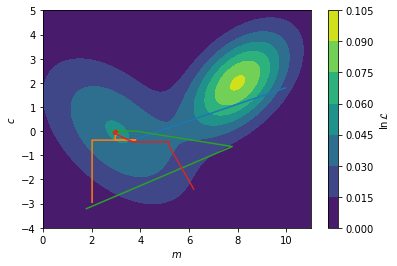
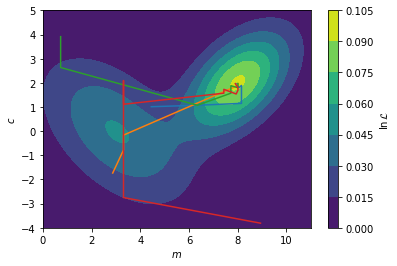
deploy: 4dc144d670c382aa6cd282333c918bd7a090e176

diff --git a/searchindex.js b/searchindex.js
@@ -1,1 +1,1 @@
-Search.setIndex({docnames:["1_the_fourier_transform/an_introduction_to_fourier_transforms","1_the_fourier_transform/fourier_transforms_for_reflectometry_analysis","2_model_dependent_analysis/what_is_model_dependent_analysis","3_reflectometry_slab_models/how_we_calculate_the_reflectivity_of_a_slab_model","3_reflectometry_slab_models/roughness_and_microslicing","3_reflectometry_slab_models/the_slab_model","4_model_reparameterisation/a_case_for_model_reparameterisation","4_model_reparameterisation/niti_multilayer_example","4_model_reparameterisation/phospholipid_monolayer_example","5_fitting_processes_and_problems/how_do_we_maximise_the_likelihood","5_fitting_processes_and_problems/how_to_leverage_our_prior_knowledge","5_fitting_processes_and_problems/what_is_the_likelihood","intro"],envversion:{"sphinx.domains.c":2,"sphinx.domains.changeset":1,"sphinx.domains.citation":1,"sphinx.domains.cpp":4,"sphinx.domains.index":1,"sphinx.domains.javascript":2,"sphinx.domains.math":2,"sphinx.domains.python":3,"sphinx.domains.rst":2,"sphinx.domains.std":2,"sphinx.ext.intersphinx":1,"sphinxcontrib.bibtex":7,sphinx:56},filenames:["1_the_fourier_transform/an_introduction_to_fourier_transforms.md","1_the_fourier_transform/fourier_transforms_for_reflectometry_analysis.ipynb","2_model_dependent_analysis/what_is_model_dependent_analysis.md","3_reflectometry_slab_models/how_we_calculate_the_reflectivity_of_a_slab_model.ipynb","3_reflectometry_slab_models/roughness_and_microslicing.ipynb","3_reflectometry_slab_models/the_slab_model.md","4_model_reparameterisation/a_case_for_model_reparameterisation.md","4_model_reparameterisation/niti_multilayer_example.ipynb","4_model_reparameterisation/phospholipid_monolayer_example.ipynb","5_fitting_processes_and_problems/how_do_we_maximise_the_likelihood.ipynb","5_fitting_processes_and_problems/how_to_leverage_our_prior_knowledge.md","5_fitting_processes_and_problems/what_is_the_likelihood.ipynb","intro.md"],objects:{},objnames:{},objtypes:{},terms:{"0":[1,3,4,8,9,10,11,12],"000":9,"00039":12,"001":[1,3,4],"00260":12,"003":12,"0053":12,"007":12,"012":12,"01980001503076100":12,"02":12,"022":[7,12],"02610489":9,"02614057":9,"0294":12,"03":12,"033":9,"04491697":9,"04493869":9,"0469":12,"04893":12,"0496667614679125":11,"06":[4,7],"07":12,"074":1,"074e":[1,4],"078":12,"092":9,"0j":[3,4],"1":[0,1,3,4,7,8,9,10,11,12],"10":[1,4,7,9,11,12],"1000":[1,3,8,9,11],"1008202821328":12,"1016":12,"1023":12,"1039":12,"104":1,"1051":12,"107":12,"108":12,"1098":12,"11":[9,12],"1103":12,"1107":12,"1119":12,"1198":12,"12":[4,11,12],"1204":12,"14":4,"15":[8,12],"155":12,"16":[1,3],"167":9,"17":4,"1761":12,"1763":12,"18":[8,12],"186":1,"186e":[1,3,4],"18th":12,"19":[8,9,12],"193":12,"1948":12,"194812030504":12,"1954":12,"197":12,"1980":12,"1997":12,"1998":12,"1999":12,"1e":4,"1f77b4":11,"1j":[1,3],"2":[1,2,3,4,7,9,11,12],"20":[1,3,4],"200":[1,3,4,12],"2005":12,"2006":12,"2007":12,"2010":12,"2011":12,"2018":12,"2019":12,"2021":12,"20384101638663543":11,"204":12,"21":12,"23":7,"248":12,"25e":4,"265":8,"265n_c":8,"2827":12,"2848":12,"297":12,"2k_nk_":4,"3":[1,3,4,5,7,9,11,12],"300":[1,3],"311":12,"3254017":12,"33":12,"338":12,"339":12,"341":12,"342":12,"357":12,"359":12,"369":12,"370":12,"3blue1brown":0,"3e":7,"4":[1,3,4,5,7,9,11,12],"40":12,"41":12,"417":7,"417e":7,"418":12,"42":[11,12],"4245e":4,"434":12,"438":7,"44":12,"4526":12,"47":[7,12],"471":12,"5":[1,3,4,8,9],"50":4,"500":[1,3,4],"504":12,"51":7,"52":12,"520":12,"53":12,"531":12,"54":12,"58":7,"59":12,"596":12,"5q":3,"6":[1,3,4,7,9,12],"6133":12,"6141":12,"648":12,"649":12,"69":7,"7":[4,8,9,11],"761":12,"779":12,"78":12,"8":[4,7,9,11],"856832":12,"867":7,"87":12,"871":1,"871e":[3,4],"9":[4,7,12],"90":8,"908":7,"91":7,"922868":12,"95":12,"951e":7,"978":12,"98":[1,12],"99":12,"9957561":9,"99615666":9,"99998503":9,"99999727":9,"\u00e0":12,"\u00e5":[0,1,3,4,7,8],"\u00e8":12,"\u00e9":12,"\u00f6":12,"\u00fc":12,"abel\u00e8":[3,4],"abstract":7,"br\u00f6hl":12,"case":[5,10],"do":[1,2],"float":[7,9,11],"function":[1,2,3,4,5,8,9,11],"import":[1,2,3,4,5,6,7,8,9,11],"int":1,"new":12,"return":[1,3,7,9,11],"switch":12,"true":[6,9],"try":[9,12],"while":[6,7],A:[1,2,4,5,7,8,9,12],As:[5,8],Be:9,By:2,For:[1,7,8,11,12],If:[1,2,9,10,11,12],In:[1,5,6,8,9,10,12],It:[2,4,5,8,9,10,12],No:4,One:8,The:[0,2,3,4,6,7,8,9,11,12],Then:[1,2,3],There:[4,9],These:[1,4,9],To:[1,4,6],_:[1,3],ab:[1,3],abel:[3,4,12],abeles48:[3,12],abeles_with_rough:4,abl:4,about:[6,8,9,10],abov:[1,2,4,7,9,11],abscissa:11,absolut:9,academ:12,accept:[1,10],account:4,accur:[2,4,6],acf2:1,acf:1,achiev:[4,8,10],across:11,act:8,action:1,ad:8,adapt:4,add:8,add_patch:4,addit:[1,6,8],addition:[2,3,4,6,7,9],admittedli:4,advanc:12,affect:8,after:[1,9],again:[1,4],against:5,agnet:12,agre:11,agreement:[2,9,11],aid:3,aim:[9,11,12],air:[1,4,8,12],al:6,algorithm:[2,9,10,12],all:[0,3,9,10,12],allow:[6,7,8,9],alon:9,alonso:12,alpha:11,alreadi:[2,10],also:[4,7,8],although:1,am:12,amphiphil:8,an:[2,4,5,6,9,10,12],analog:[0,9,11],analys:[9,12],analysi:[3,5,7,8,9,10,11,12],analyt:2,andbook:12,andrew:12,angstrom:7,ani:[4,11,12],ann:12,anomagnet:12,anoth:1,anphi:12,answer:12,apm:8,append:9,appl:12,appli:[1,2,4,6,8,9,12],applic:[3,9,12],approach:[1,2,3,4,5,6,7,8,9,12],approx:1,approxim:[3,12],ar:[0,1,2,3,4,5,6,7,8,9,10,11,12],area:6,argmax:9,argsort:9,arnold:12,around:4,arrai:[1,3,4,7,9],artefact:4,artifici:12,assembl:8,assess:9,assign:7,associ:[10,11,12],assum:[8,12],assumpt:[2,6,7,8],ateri:12,atom:[7,8],attach:8,attent:12,autocorrel:1,avail:1,avogadro:7,awar:[2,9],ax:[4,11],axhlin:1,b:[3,7,12],b_:[3,7],b_i:[7,8],b_ni:7,b_ti:7,back:9,bar:[3,11],base:[2,3,7],basic:12,bay:[10,12],bayesian:[10,12],becom:[1,9],been:[1,3,4,7,8,12],befor:[0,4,5,12],begin:3,being:[2,4,11],belief:10,believ:2,below:[0,1,3,4,5,7,8,9,11],benefit:8,berk:12,best:[8,9,11],beta:[1,3,4,7,8],beta_0:3,beta_1:5,beta_2:5,beta_:[1,7,8],beta_i:8,beta_microsl:4,beta_n:3,beta_ni:7,beta_ti:7,between:[0,1,2,3,4,5,9,11],bia:2,bias:10,bigg:[1,11],biolog:[9,12],bj:12,bjorck11:[9,12],black:[1,9],block:12,blue:[1,9,11],bmatrix:3,book:[1,10,12],born:[3,12],borrow:1,both:8,bound:[7,10],bowen:12,bp63:[10,12],bring:3,broad:[2,11],broadli:2,brought:3,bsd:3,c9cp00203k:12,c:[1,9,11,12],calcul:[1,2,4,5,8,11],call:5,callback:9,campbel:12,can:[1,2,3,4,5,6,7,8,9,10,11,12],cannot:[4,11],caract:12,carbon:8,carefulli:9,caruana:12,cation:12,catter:12,caus:8,caution:6,cdot:7,chanc:12,chang:[1,2,9],character:12,characterist:3,characteristic_matric:3,chem:12,chemic:[5,6,12],chemistri:2,chi:11,circ:8,clark:12,clear:[2,4,5,9],clearer:3,clearli:4,clifton:12,close:3,cm:7,coci:12,code:[4,7,9,12],collect:12,colloid:12,color:11,colorbar:9,comfort:12,common:[2,4,5,7,8,9],commonli:[6,9,11],companion:12,compar:[2,3,4,6,11],comparison:5,complementari:6,complet:[2,9],complex:[3,8,9,12],composit:8,computation:9,concept:6,conclus:9,condens:12,conj:3,conjug:3,consid:[1,2,3,4,5,7,8,9,10,11],consider:9,consist:[5,7,8],constant:[2,7,10],constrain:[7,8],constraint:[6,8],construct:[2,3,5,10],consult:8,content:12,context:2,continu:12,contourf:9,contrast:9,convers:6,could:[5,10],coupl:9,cours:12,cover:[2,12],creat:4,croce:[4,12],crystallogr:12,crystallographi:1,css:[8,12],cubitt:12,curr:12,current:[9,12],current_theta:9,curve_fit:11,d:[1,3,4,11,12],d_1:5,d_2:5,d_h:8,d_i:8,d_microsl:4,d_n:3,d_t:8,dan:12,data:[1,2,3,4,5,6,7,8,9,10,11,12],databas:7,datapoint:11,dataset:[9,11],de:12,decomposit:0,deep:12,def:[1,3,7,9,11],defin:[1,2,5,6,7,8,11],deg2rad:8,delta:1,denot:1,densiti:[1,3,4,5,6,8],depend:[5,7,8,9,10,11,12],deposit:7,deriv:[1,5],descent:9,describ:[2,3,4,5,6,9,10,11],descript:[1,6,8],design:10,desir:[7,9],deslatt:12,destruct:5,detail:[0,1,2],detector:5,determin:[3,9,12],develop:12,deviat:[3,11],devind:[1,10,12],diatom:2,diff:[1,3],differ:[1,4,5],differenti:[9,10,12],differential_evolut:9,difficult:8,dimens:[1,5],dimension:9,dioxid:[1,4],directli:7,discoveri:9,discuss:[1,4,5,11],disposit:7,distribut:[9,11],divid:1,docstr:3,doctrin:12,doe:[2,3,4],doi:12,domain:0,done:11,dot:11,downhil:9,dppc:8,dr:[1,10,12],draw:[9,12],dtype:3,du:12,due:[1,2],dura:12,dvanc:12,e:[5,12],each:[3,4,5,7,8],easili:[7,9],edgecolor:4,edit:12,editor:12,edler:12,effect:[1,4,9,12],effici:12,eflect:12,elast:0,element:[7,11],elementari:[1,12],eleph:12,els:2,enabl:[4,10],encount:[2,9],end:3,ensur:[2,9],entir:2,enumer:11,enzym:2,equat:[1,2],error:[4,11],errorbar:11,essai:12,essenti:0,estim:1,et:6,european:12,eutect:12,eutron:12,evalu:[7,12],eventu:9,ever:2,everi:8,evolut:[9,10,12],evolutionari:9,exampl:[2,4,5,6,9,10],exhaust:12,exist:[4,9],exp:[1,3,4],expect:[2,10],experi:[2,12],experiment:[2,5,6,11],explicitli:1,exploit:12,extend:8,extrem:8,f:[3,7,12],fact:10,factor:[3,11],fair:2,fals:4,familiar:[1,2,6],fantast:1,far:11,fashion:9,feed:9,feedback:12,feel:12,fernandez:12,ff7f0e:11,field:[8,12],fig:[2,4,5,8,11],figsiz:[4,11],figur:[1,2,4,9,11,12],fill:4,fill_between:11,find:[1,2,4,7,8,9,10,11],first:[1,2,3,5,6,7,9,11],fit:[2,6,7,9,11],fitzsimmon:12,flat:[1,4],flavour:[6,9],flexion:12,flow:2,fm05:12,fm:7,focus:0,follow:[1,7,8,9,11,12],forc:2,form:[1,9],formal:[3,4],format:12,found:[1,3,4,7,8,9,10],four:12,fourier:[2,3,5,12],fourier_transform:1,frac:[1,3,4,7,8,10,11],fraction:8,free:[6,9,12],frensel:3,fresnel:[3,4],fresnel_reflect:3,from:[0,1,2,3,4,5,6,7,8,9,11,12],full:1,fulli:8,fundament:[0,5],further:[9,10],g:[7,12],garbag:2,gcm:7,gener:[2,9,12],genet:12,geometri:5,gerelli:12,get:[2,11,12],give:[0,3,6,12],given:[4,5,8,9,11],glob:12,global:[9,12],go:[3,5,9],good:11,gradient:11,gradient_callback:9,gradient_v:9,graphic:7,great:[0,10],greater:1,group:8,guess:9,guntherodt:12,h:12,ha:[1,4,7,8,12],hall:12,hand:4,hard:7,harder:9,have:[1,2,3,8,9,10,11,12],head:8,heavili:[8,11,12],heavisid:1,heinrich:12,helper:[4,9],henc:[0,11],henomena:12,here:[3,11],heurist:12,higher:8,hoogerheid:12,hopefulli:5,horizont:1,how:[2,5,6,8,11,12],howard:12,howev:[1,2,4,5,6,7,9,11],hydrocarbon:8,hydrophil:8,hydrophob:[8,12],i:[1,3,5,7,8,11],identifi:4,ignor:4,impact:[0,4],implement:[3,4,9],impli:4,impos:10,improv:2,inaccur:4,incid:[1,5],includ:[0,2,3,7,8,12],incorrectli:4,increas:[4,9,11],independ:2,indic:[1,9,11],individu:[3,7],induc:12,influenc:4,inform:[1,6,12],infti:1,inher:2,initi:9,input:3,insect:9,insight:[2,12],insolubl:8,inspir:9,instead:[1,3,7,9,10],instrument:8,integr:[10,12],intens:[1,9],interact:[0,1],intercal:8,intercept:11,interest:[0,2,12],interfac:[3,4,5,8,12],interfer:5,interpret:[2,4],interrog:[4,9],introduc:[2,4,5,6,8,10,12],introduct:10,inv_fourier_transform:1,invers:[1,12],investig:[1,2,6,9],involv:[5,7],isbn:12,isi:12,isotop:9,issu:1,its:7,j:12,jackson:12,jci:12,john:[6,12],jpsc21:[6,12],jupyterhub:12,k0:3,k:[1,3,9,12],k_0:3,k_:[3,4],k_n:[3,4],karin:12,khairi:12,kienzl:12,kinet:2,kn:3,knowledg:12,known:[2,4,8],kronm:12,l:[9,10,11,12],la:12,label:[1,3,4,9],lak19:12,lakei:12,languag:[6,12],larg:[1,12],later:[5,7],latter:6,lawrenc:12,layer:[3,4,5,7,8],le:12,lead:[0,2,4,5],leak:4,learn:8,lectromagn:12,lectur:12,left:4,legend:[1,3,4],length:[1,3,4,5,6,8],less:5,let:[0,1,10],licens:3,light:12,like:[2,4,8,10],likelihood:10,likleihood:10,limit:[1,2,7,8],line:[1,9,11],linearli:11,linspac:[1,3,4,8,9,11],lipid:12,liquid:12,list:12,literatur:8,ller:12,ln:[9,11],loadtxt:11,local:9,log:[1,3,4,11],logic:[2,10,12],logpdf:9,lond:12,look:[0,1,2,3,6,9,10,11],loss:1,lost:5,lovel:12,low:3,lr99:[2,12],ls:11,lw:11,m:[3,9,11,12],m_:[3,7],m_w:7,m_w_ni:7,m_w_ti:7,made:[2,6,7],magnet:12,magnitud:1,mai:[1,2,6,7,11,12],majkrzak:12,major:[7,11],make:[2,3,6,8,12],mani:9,marker:11,mass:6,match:1,materi:[1,3,4,5,7,12],mathcal:[9,10,11],mathemat:12,mathit:[1,3],mathrm:[1,3,7,8,11],matnei:12,matplotlib:[1,3,4,8,9,11],matric:3,matrix:[3,4],matter:[7,12],matyszewska:12,max:[1,3,11],maxima:9,maximilian:12,maximis:[10,11],maximum:[8,9,10,11],mayer:12,mbd:[1,12],mccluskei:12,mead:9,mean:[1,4,7,8,9,11],measur:[0,1,2,5,6,10,11],media:3,member:9,membran:12,menten:2,mention:8,merit:2,meshgrid:9,method:[3,4,12],methodolog:[1,2,4,9,12],metric:[9,11],micel:12,micha:2,might:2,milieux:12,minim:9,minimis:[9,11],minimum:[9,10],mkh10:[2,12],modal:9,model:[1,4,7,8,9,10,11,12],modifi:[3,4],modul:[4,9],mol:7,molecul:[2,6],molecular:7,monolay:12,more:[0,2,4,6,7,8,9,10,11,12],most:[3,4,5,9],move:9,movement:12,msfe:[8,12],much:[3,5],multi:9,multivariate_norm:9,must:[2,4,8],mv1:9,mv2:9,mv:9,n:[3,4,7,8,11,12],n_:[3,11],n_a:7,n_c:8,nanostructur:12,natur:[6,8],nazaruk:12,ndarrai:[1,3,7,9,11],nearbi:9,necessari:[3,4,9],need:2,neg:9,nelder:9,nelson:12,neutron:[0,1,2,3,5,6,7,9],nevot:4,nevotc80:[4,12],newaxi:[1,3],ni:7,nickel:[4,7],nll:9,nois:1,noisi:1,non:9,none:9,norm:11,normal:[1,3,9,11],normal_wavevector:3,normalis:[1,11],note:[1,2,8,9],notic:[4,11],novemb:12,now:[0,3,4,8,9,11],np19:[3,12],np:[1,3,4,7,8,9,11],nuanc:5,number:[1,6,7,8,9,11],number_lay:3,number_q:3,numpi:[1,3,4,7,8,9,11],o:11,observ:[1,4,5,11],obtain:[1,4,7],obvious:5,offer:2,olar:12,onc:[9,12],ond:12,one:[8,9,10,11],ones:3,ones_lik:4,onli:[1,4,7,8,11],onlin:7,opin:12,opinion:12,optim:[9,11,12],optimis:[8,9],optimum:9,orang:[9,11],order:[5,9],other:[8,11],our:[1,2,4,5,6,7,8,9,11],out:[2,10],outsid:10,over:12,overal:[3,9,11],overview:0,oxford:12,p0:3,p1:3,p:[10,11,12],packag:[3,7],page:12,pai:12,panaccion:12,panosc:12,paper:12,par54:[3,12],par:12,param:[1,3,7,11],paramet:[3,4,5,6,7,8,9,10,11,12],parameteris:[6,8,12],pari:12,parker:12,parkin:12,parratt:[3,12],part:[1,11,12],particip:12,particl:9,particular:[5,6],particularli:12,patch:4,path:[5,9],pattern:[0,5],pdf:[9,11],peak:1,pedulla:12,per:6,perfect:4,perfectli:4,perform:[0,1,11],perpendicular:1,pg:1,phase:[1,2,3,12],phase_factor:3,phi:3,phi_0:3,phi_i:8,phi_n:3,phi_t:3,phil:12,phospholipid:12,phy:12,physic:[1,2,5,6,8,12],physica:12,physrev:12,pi:[1,3,11],pictori:8,piec:[1,4,7],pint:7,place:10,plane:[1,8],pleas:12,plot:[1,3,4,8,9,11,12],plt:[1,3,4,8,9,11],point:11,polar:12,polissag:12,popul:9,popular:2,posit:9,possibl:[1,2,4,5,8,9,11],posterior:10,power:12,prepar:[2,7],prescott:12,present:[1,2,4],press:12,pressur:8,preston:12,previou:[2,6],previous:[3,4,6,8],price:12,print:[7,9],probabl:[10,11],probe:[2,9,10],problem:[1,2,9,12],problemat:12,procedur:12,process:[2,6,7,9,12],prod:3,produc:[1,2,12],product:3,profil:[1,4,5],program:12,project:12,propag:[3,5,12],propos:2,propto:10,py:[4,9],pyplot:[1,3,4,8,9,11],python:[3,12],q2:1,q:[0,1,2,3,4,12],q_:1,q_x:1,q_y:1,qualiti:9,quantifi:9,quelqu:12,question:12,quick:1,r2:1,r:[1,3,4,5,8,12],r_:[3,4],r_abel:3,r_fourier:3,r_microsl:4,r_nevot_croc:4,r_with_rough:4,radiat:[0,1],rai:[1,12],random:9,rang:[1,2,3,4,9,12],rasant:12,rather:[2,6,7],ratio:5,ration:9,rayon:12,rck:12,re:9,reach:[7,9],read:12,reader:12,real:[3,4,5],realli:2,reason:7,recent:[8,12],rectangl:4,recurs:3,red:4,reduc:[6,8],refin:5,reflect:[1,2,4,5,12],reflectometri:[0,2,3,4,5,6,7,8,9,11],refnx:[3,12],refract:[3,5],region:[1,4,8,9],relat:7,relationship:1,relev:[8,12],reli:3,render:1,reparameteris:[5,7,8,11,12],repeat:7,repres:[2,11],reproduc:3,requir:[6,12],res1:9,res2:9,resolut:[1,2],respect:1,result:[1,2,3,4,5,9],resultant_matrix:3,retriv:1,rev:12,review:12,rewrit:1,rho:[3,7],rho_:7,rho_ni:7,rho_ti:7,rho_to_beta:7,richardson:12,right:4,risat:12,robust:9,room:7,root:9,rout:9,rphysap:12,rsta:12,rstl:12,rule:4,s0021889811041446:12,s0921:12,s1359:12,s1600576718017016:12,s1600576718017296:12,s:[0,1,7,8,9,10,12],saaka:12,sai:1,same:[4,5,7,11],sampl:[0,1,2,4,7],sanchez:12,sansom:12,satija:12,scale:[1,12],scatter:[0,1,3,4,5,6,8,12],sche:12,sci:12,scienc:[2,12],scipi:[7,9,11],search:12,section:[2,5,6,9],see:[4,5,9],seen:[10,11],select:11,self:8,semi:9,sensit:1,seri:[3,4,5],set:7,set_xlabel:[4,11],set_xlim:4,set_ylabel:[4,11],set_ylim:4,shao:12,shape:[3,9],shortest:4,should:[1,4,6,8,9,11,12],show:[1,2,3,4,5,7,8,9,11,12],shown:[1,2,3,4,5,8,9,11],si:1,sigma2:4,sigma3:4,sigma5:4,sigma7:4,sigma:[4,11],sigma_:4,sigma_n:11,silic:12,silicon:[1,4,7],similar:[2,3],simpl:[1,2,5,6,7,8,9,10,12],simpli:9,simul:[2,4,5,6,7],sin:8,singl:[8,11],sio_2:1,sit:[8,11],siv11:[1,12],sivia:[1,10,12],sj06:[10,12],skill:12,skip:12,sko19:12,skoda:12,slab:[4,6,8,12],sld_with_rough:4,smooth:[1,4],so:11,soc:12,soft:12,solid:12,solubl:8,solut:9,solv:12,solvat:8,solvent:[8,12],some:[0,1,2,4,5,8,9,10,11,12],someth:[0,2],son:12,sourc:12,sp97:[9,12],space:[0,9,12],spallat:12,speak:8,specif:[6,8],spectra:2,specular:12,spintron:12,springer:12,sqrt:3,squar:[1,3],sratifi:12,staff:8,standard:11,start:[9,10],stat:[9,11],state:10,step:[4,9,10],stephen:12,still:[4,7],storn:12,straight_lin:11,straightforward:6,strand:8,stratifi:3,structur:[1,2,6,7,12],student:12,studi:[1,2,8,12],subject:12,subplot:[4,11],suggest:[10,12],sum:[1,3,7],sum_:[7,8,11],summat:11,superphas:3,sur:12,sure:12,surfac:[1,3,7,12],surfact:12,swarm:9,synthesi:2,system:[1,2,4,5,6,7,8,9,12],t:[9,12],t_t:8,tackl:2,tail:8,take:[0,2,9,10],taken:[3,5],tan80:[8,12],tanford:[8,12],techniqu:[6,12],temperatur:7,tend:1,term:[5,7,8,11],textquotesingl:12,than:[1,4,7,9],thank:12,thei:[9,12],them:[4,11],theorem:10,theori:[1,12],therefor:[2,4,6,7,9,10],theta:[8,9,10,11],thi:[0,1,2,3,4,5,6,7,8,9,10,11,12],thick:[1,3,4,5,8],thin:4,thing:2,think:6,those:10,thought:1,three:[2,7],through:[3,4,5,12],thumb:4,tight_layout:11,time:[0,1,4,7],tiqu:12,titanium:7,tkh:[9,12],togeth:3,tool:[1,2,6],top4:9,top:1,toperverg:12,total:12,touch:12,toward:[1,9,12],tradit:[7,8,12],train:12,tran:12,transform:[2,3,5,12],translat:6,transmitt:3,treec:12,trigonometri:8,tude:12,turn:9,tutori:[10,12],two:[2,3,4,5,6,8,9],txt:11,typic:[2,4,5,6,7,8,9,11],tz07:12,u:7,uantum:12,uncertainti:11,unclear:7,under:[1,3,8],underli:[2,11],understand:[2,3,5,6,10,12],unintuit:6,uniqu:9,unit:0,unitregistri:7,univers:12,unlik:8,unphys:[1,4],until:7,up:9,uphil:9,us:[2,3,4,6,7,8,9,10,11,12],useless:1,user:[1,12],utilis:1,valu:[1,3,7,8,9,10,11],vari:[7,9],variabl:7,varieti:9,vector:3,veri:[4,8,9],verr:12,version:1,vibrat:2,video:0,virtual:12,visualis:[1,4],vot:12,w:[7,12],wa:[1,2,5,10,12],wai:[2,8],watch:0,water:[8,12],wave:[3,5],wavevector:[1,3],wc19:12,we:[0,1,2,4,5,6,7,8,10,11,12],weight:7,welbourn:12,well:2,were:10,what:12,when:[3,5,8,9,10,11],where:[1,2,3,4,5,7,8,9,10,11],which:[0,1,3,4,7,8,9,10,11],width:4,wiesendang:12,wilei:12,within:10,without:[1,2,4],word:2,work:[4,6,12],workflow:2,wormington:12,would:[2,4,5,8,10],wpmb99:[9,12],written:[1,11],wwe:8,x:[1,9,11,12],x_n:11,xlabel:[1,3,4,8,9],xy:8,y:[9,10,11,12],y_fit:11,y_n:11,ylabel:[1,3,4,8,9],you:[1,2,10,11,12],your:[8,12],yscale:[1,3,4],yy:11,z:[1,3,4,5],zabel:12,zero:3,zeros_lik:[1,3],zhou:12,zorder:11,zq:1,ztbt07:12},titles:["An introduction to Fourier transforms","Fourier transforms for reflectometry analysis","What is model-dependent analysis?","How we calculate the reflectivity of a slab model","Roughness and microslicing","The \u201cslab model\u201d","A case for model reparameterisation","NiTi multilayer example","Phospholipid monolayer example","How do we maximise the likelihood?","How to leverage our prior knowledge?","What is the likelihood?","Introduction to neutron reflectometry fitting"],titleterms:{"case":6,"do":9,A:[6,10],The:[1,5],algorithm:3,an:[0,1],analysi:[1,2],angl:8,approxim:1,area:8,bibliographi:12,born:1,calcul:3,chain:8,densiti:7,depend:2,exampl:[1,7,8],fit:12,fourier:[0,1],gradient:9,how:[3,9,10],interfac:1,interfaci:4,introduct:[0,12],knowledg:10,layer:1,length:7,leverag:10,likelihood:[9,11],mass:7,maximis:9,method:9,microsl:4,model:[2,3,5,6],molecul:8,monolay:8,multilay:7,neutron:12,niti:7,our:10,oxid:1,per:8,phospholipid:8,prior:10,problem:4,reflect:3,reflectometri:[1,12],reparameteris:6,rough:4,scatter:7,singl:1,slab:[3,5],specular:1,stochast:9,tilt:8,transform:[0,1],uniform:10,us:1,we:[3,9],what:[0,2,11]}})
+Search.setIndex({docnames:["1_the_fourier_transform/an_introduction_to_fourier_transforms","1_the_fourier_transform/fourier_transforms_for_reflectometry_analysis","2_model_dependent_analysis/what_is_model_dependent_analysis","3_reflectometry_slab_models/how_we_calculate_the_reflectivity_of_a_slab_model","3_reflectometry_slab_models/roughness_and_microslicing","3_reflectometry_slab_models/the_slab_model","4_model_reparameterisation/a_case_for_model_reparameterisation","4_model_reparameterisation/niti_multilayer_example","4_model_reparameterisation/phospholipid_monolayer_example","5_fitting_processes_and_problems/how_do_we_maximise_the_likelihood","5_fitting_processes_and_problems/how_to_leverage_our_prior_knowledge","5_fitting_processes_and_problems/what_is_the_likelihood","intro"],envversion:{"sphinx.domains.c":2,"sphinx.domains.changeset":1,"sphinx.domains.citation":1,"sphinx.domains.cpp":4,"sphinx.domains.index":1,"sphinx.domains.javascript":2,"sphinx.domains.math":2,"sphinx.domains.python":3,"sphinx.domains.rst":2,"sphinx.domains.std":2,"sphinx.ext.intersphinx":1,"sphinxcontrib.bibtex":7,sphinx:56},filenames:["1_the_fourier_transform/an_introduction_to_fourier_transforms.md","1_the_fourier_transform/fourier_transforms_for_reflectometry_analysis.ipynb","2_model_dependent_analysis/what_is_model_dependent_analysis.md","3_reflectometry_slab_models/how_we_calculate_the_reflectivity_of_a_slab_model.ipynb","3_reflectometry_slab_models/roughness_and_microslicing.ipynb","3_reflectometry_slab_models/the_slab_model.md","4_model_reparameterisation/a_case_for_model_reparameterisation.md","4_model_reparameterisation/niti_multilayer_example.ipynb","4_model_reparameterisation/phospholipid_monolayer_example.ipynb","5_fitting_processes_and_problems/how_do_we_maximise_the_likelihood.ipynb","5_fitting_processes_and_problems/how_to_leverage_our_prior_knowledge.md","5_fitting_processes_and_problems/what_is_the_likelihood.ipynb","intro.md"],objects:{},objnames:{},objtypes:{},terms:{"0":[1,3,4,8,9,10,11,12],"000":9,"00039":12,"001":[1,3,4],"00260":12,"003":12,"0053":12,"007":12,"012":12,"01980001503076100":12,"02":12,"022":[7,12],"02614057":9,"0294":12,"03":12,"033":9,"04493869":9,"0469":12,"04893":12,"0496667614679125":11,"06":[4,7],"07":12,"074":1,"074e":[1,4],"078":12,"092":9,"0j":[3,4],"1":[0,1,3,4,7,8,9,10,11,12],"10":[1,4,7,9,11,12],"1000":[1,3,8,9,11],"1008202821328":12,"1016":12,"1023":12,"1039":12,"104":1,"1051":12,"107":12,"108":12,"1098":12,"11":[9,12],"1103":12,"1107":12,"1119":12,"1198":12,"12":[4,11,12],"1204":12,"14":4,"15":[8,12],"155":12,"16":[1,3],"167":9,"17":4,"1761":12,"1763":12,"18":[8,12],"186":1,"186e":[1,3,4],"18th":12,"19":[8,9,12],"193":12,"1948":12,"194812030504":12,"1954":12,"197":12,"1980":12,"1997":12,"1998":12,"1999":12,"1e":4,"1f77b4":11,"1j":[1,3],"2":[1,2,3,4,7,9,11,12],"20":[1,3,4],"200":[1,3,4,12],"2005":12,"2006":12,"2007":12,"2010":12,"2011":12,"2018":12,"2019":12,"2021":12,"20384101638663543":11,"204":12,"21":12,"23":7,"248":12,"25e":4,"265":8,"265n_c":8,"2827":12,"2848":12,"297":12,"2k_nk_":4,"3":[1,3,4,5,7,9,11,12],"300":[1,3],"311":12,"3254017":12,"33":12,"338":12,"339":12,"341":12,"342":12,"357":12,"359":12,"369":12,"370":12,"3blue1brown":0,"3e":7,"4":[1,3,4,5,7,9,11,12],"40":12,"41":12,"417":7,"417e":7,"418":12,"42":[11,12],"4245e":4,"434":12,"438":7,"44":12,"4526":12,"47":[7,12],"471":12,"5":[1,3,4,8,9],"50":4,"500":[1,3,4],"504":12,"51":7,"52":12,"520":12,"53":12,"531":12,"54":12,"58":7,"59":12,"596":12,"5q":3,"6":[1,3,4,7,9,12],"6133":12,"6141":12,"648":12,"649":12,"69":7,"7":[4,8,9,11],"761":12,"779":12,"78":12,"79103477":9,"8":[4,7,9,11],"856832":12,"867":7,"87":12,"871":1,"871e":[3,4],"89098951":9,"9":[4,7,12],"90":8,"908":7,"91":7,"922868":12,"95":12,"951e":7,"978":12,"98":[1,12],"99":12,"9957561":9,"99615666":9,"99998503":9,"99999727":9,"\u00e0":12,"\u00e5":[0,1,3,4,7,8],"\u00e8":12,"\u00e9":12,"\u00f6":12,"\u00fc":12,"abel\u00e8":[3,4],"abstract":7,"br\u00f6hl":12,"case":[5,10],"do":[1,2],"float":[7,9,11],"function":[1,2,3,4,5,8,9,11],"import":[1,2,3,4,5,6,7,8,9,11],"int":1,"new":12,"return":[1,3,7,9,11],"switch":12,"true":[6,9],"try":[9,12],"while":[6,7],A:[1,2,4,5,7,8,9,12],As:[5,8],Be:9,By:2,For:[1,7,8,11,12],If:[1,2,9,10,11,12],In:[1,5,6,8,9,10,12],It:[2,4,5,8,9,10,12],No:4,One:8,The:[0,2,3,4,6,7,8,9,11,12],Then:[1,2,3],There:[4,9],These:[1,4,9],To:[1,4,6],_:[1,3],ab:[1,3],abel:[3,4,12],abeles48:[3,12],abeles_with_rough:4,abl:4,about:[6,8,9,10],abov:[1,2,4,7,9,11],abscissa:11,absolut:9,academ:12,accept:[1,10],account:4,accur:[2,4,6],acf2:1,acf:1,achiev:[4,8,10],across:11,act:8,action:1,ad:8,adapt:4,add:8,add_patch:4,addit:[1,6,8],addition:[2,3,4,6,7,9],admittedli:4,advanc:12,affect:8,after:[1,9],again:[1,4],against:5,agnet:12,agre:11,agreement:[2,9,11],aid:3,aim:[9,11,12],air:[1,4,8,12],al:6,algorithm:[2,9,10,12],all:[0,3,9,10,12],allow:[6,7,8,9],alon:9,alonso:12,alpha:11,alreadi:[2,10],also:[4,7,8],although:1,am:12,amphiphil:8,an:[2,4,5,6,9,10,12],analog:[0,9,11],analys:[9,12],analysi:[3,5,7,8,9,10,11,12],analyt:2,andbook:12,andrew:12,angstrom:7,ani:[4,11,12],ann:12,anomagnet:12,anoth:1,anphi:12,answer:12,apm:8,append:9,appl:12,appli:[1,2,4,6,8,9,12],applic:[3,9,12],approach:[1,2,3,4,5,6,7,8,9,12],approx:1,approxim:[3,12],ar:[0,1,2,3,4,5,6,7,8,9,10,11,12],area:6,argmax:9,argsort:9,arnold:12,around:4,arrai:[1,3,4,7,9],artefact:4,artifici:12,assembl:8,assess:9,assign:7,associ:[10,11,12],assum:[8,12],assumpt:[2,6,7,8],ateri:12,atom:[7,8],attach:8,attent:12,autocorrel:1,avail:1,avogadro:7,awar:[2,9],ax:[4,11],axhlin:1,b:[3,7,12],b_:[3,7],b_i:[7,8],b_ni:7,b_ti:7,back:9,bar:[3,11],base:[2,3,7],basic:12,bay:[10,12],bayesian:[10,12],becom:[1,9],been:[1,3,4,7,8,12],befor:[0,4,5,12],begin:3,being:[2,4,11],belief:10,believ:2,below:[0,1,3,4,5,7,8,9,11],benefit:8,berk:12,best:[8,9,11],beta:[1,3,4,7,8],beta_0:3,beta_1:5,beta_2:5,beta_:[1,7,8],beta_i:8,beta_microsl:4,beta_n:3,beta_ni:7,beta_ti:7,between:[0,1,2,3,4,5,9,11],bia:2,bias:10,bigg:[1,11],biolog:[9,12],bj:12,bjorck11:[9,12],black:[1,9],block:12,blue:[1,9,11],bmatrix:3,book:[1,10,12],born:[3,12],borrow:1,both:8,bound:[7,10],bowen:12,bp63:[10,12],bring:3,broad:[2,11],broadli:2,brought:3,bsd:3,c9cp00203k:12,c:[1,9,11,12],calcul:[1,2,4,5,8,11],call:5,callback:9,campbel:12,can:[1,2,3,4,5,6,7,8,9,10,11,12],cannot:[4,11],caract:12,carbon:8,carefulli:9,caruana:12,cation:12,catter:12,caus:8,caution:6,cdot:7,chanc:12,chang:[1,2,9],character:12,characterist:3,characteristic_matric:3,chem:12,chemic:[5,6,12],chemistri:2,chi:11,circ:8,clark:12,clear:[2,4,5,9],clearer:3,clearli:4,clifton:12,close:3,cm:7,coci:12,code:[4,7,9,12],collect:12,colloid:12,color:11,colorbar:9,comfort:12,common:[2,4,5,7,8,9],commonli:[6,9,11],companion:12,compar:[2,3,4,6,11],comparison:5,complementari:6,complet:[2,9],complex:[3,8,9,12],composit:8,computation:9,concept:6,conclus:9,condens:12,conj:3,conjug:3,consid:[1,2,3,4,5,7,8,9,10,11],consider:9,consist:[5,7,8],constant:[2,7,10],constrain:[7,8],constraint:[6,8],construct:[2,3,5,10],consult:8,content:12,context:2,continu:12,contourf:9,contrast:9,convers:6,could:[5,10],coupl:9,cours:12,cover:[2,12],creat:4,croce:[4,12],crystallogr:12,crystallographi:1,css:[8,12],cubitt:12,curr:12,current:[9,12],current_theta:9,curve_fit:11,d:[1,3,4,11,12],d_1:5,d_2:5,d_h:8,d_i:8,d_microsl:4,d_n:3,d_t:8,dan:12,data:[1,2,3,4,5,6,7,8,9,10,11,12],databas:7,datapoint:11,dataset:[9,11],de:12,decomposit:0,deep:12,def:[1,3,7,9,11],defin:[1,2,5,6,7,8,11],deg2rad:8,delta:1,denot:1,densiti:[1,3,4,5,6,8],depend:[5,7,8,9,10,11,12],deposit:7,deriv:[1,5],descent:9,describ:[2,3,4,5,6,9,10,11],descript:[1,6,8],design:10,desir:[7,9],deslatt:12,destruct:5,detail:[0,1,2],detector:5,determin:[3,9,12],develop:12,deviat:[3,11],devind:[1,10,12],diatom:2,diff:[1,3],differ:[1,4,5],differenti:[9,10,12],differential_evolut:9,difficult:8,dimens:[1,5],dimension:9,dioxid:[1,4],directli:7,discoveri:9,discuss:[1,4,5,11],disposit:7,distribut:[9,11],divid:1,docstr:3,doctrin:12,doe:[2,3,4],doi:12,domain:0,done:11,dot:11,downhil:9,dppc:8,dr:[1,10,12],draw:[9,12],dtype:3,du:12,due:[1,2],dura:12,dvanc:12,e:[5,12],each:[3,4,5,7,8],easili:[7,9],edgecolor:4,edit:12,editor:12,edler:12,effect:[1,4,9,12],effici:12,eflect:12,elast:0,element:[7,11],elementari:[1,12],eleph:12,els:2,enabl:[4,10],encount:[2,9],end:3,ensur:[2,9],entir:2,enumer:11,enzym:2,equat:[1,2],error:[4,11],errorbar:11,essai:12,essenti:0,estim:1,et:6,european:12,eutect:12,eutron:12,evalu:[7,12],eventu:9,ever:2,everi:8,evolut:[9,10,12],evolutionari:9,exampl:[2,4,5,6,9,10],exhaust:12,exist:[4,9],exp:[1,3,4],expect:[2,10],experi:[2,12],experiment:[2,5,6,11],explicitli:1,exploit:12,extend:8,extrem:8,f:[3,7,12],fact:10,factor:[3,11],fair:2,fals:4,familiar:[1,2,6],fantast:1,far:11,fashion:9,feed:9,feedback:12,feel:12,fernandez:12,ff7f0e:11,field:[8,12],fig:[2,4,5,8,11],figsiz:[4,11],figur:[1,2,4,9,11,12],fill:4,fill_between:11,find:[1,2,4,7,8,9,10,11],first:[1,2,3,5,6,7,9,11],fit:[2,6,7,9,11],fitzsimmon:12,flat:[1,4],flavour:[6,9],flexion:12,flow:2,fm05:12,fm:7,focus:0,follow:[1,7,8,9,11,12],forc:2,form:[1,9],formal:[3,4],format:12,found:[1,3,4,7,8,9,10],four:12,fourier:[2,3,5,12],fourier_transform:1,frac:[1,3,4,7,8,10,11],fraction:8,free:[6,9,12],frensel:3,fresnel:[3,4],fresnel_reflect:3,from:[0,1,2,3,4,5,6,7,8,9,11,12],full:1,fulli:8,fundament:[0,5],further:[9,10],g:[7,12],garbag:2,gcm:7,gener:[2,9,12],genet:12,geometri:5,gerelli:12,get:[2,11,12],give:[0,3,6,12],given:[4,5,8,9,11],glob:12,global:[9,12],go:[3,5,9],good:11,gradient:11,gradient_callback:9,gradient_v:9,graphic:7,great:[0,10],greater:1,group:8,guess:9,guntherodt:12,h:12,ha:[1,4,7,8,12],hall:12,hand:4,hard:7,harder:9,have:[1,2,3,8,9,10,11,12],head:8,heavili:[8,11,12],heavisid:1,heinrich:12,helper:[4,9],henc:[0,11],henomena:12,here:[3,11],heurist:12,higher:8,hoogerheid:12,hopefulli:5,horizont:1,how:[2,5,6,8,11,12],howard:12,howev:[1,2,4,5,6,7,9,11],hydrocarbon:8,hydrophil:8,hydrophob:[8,12],i:[1,3,5,7,8,11],identifi:4,ignor:4,impact:[0,4],implement:[3,4,9],impli:4,impos:10,improv:2,inaccur:4,incid:[1,5],includ:[0,2,3,7,8,12],incorrectli:4,increas:[4,9,11],independ:2,indic:[1,9,11],individu:[3,7],induc:12,influenc:4,inform:[1,6,12],infti:1,inher:2,initi:9,input:3,insect:9,insight:[2,12],insolubl:8,inspir:9,instead:[1,3,7,9,10],instrument:8,integr:[10,12],intens:[1,9],interact:[0,1],intercal:8,intercept:11,interest:[0,2,12],interfac:[3,4,5,8,12],interfer:5,interpret:[2,4],interrog:[4,9],introduc:[2,4,5,6,8,10,12],introduct:10,inv_fourier_transform:1,invers:[1,12],investig:[1,2,6,9],involv:[5,7],isbn:12,isi:12,isotop:9,issu:1,its:7,j:12,jackson:12,jci:12,john:[6,12],jpsc21:[6,12],jupyterhub:12,k0:3,k:[1,3,9,12],k_0:3,k_:[3,4],k_n:[3,4],karin:12,khairi:12,kienzl:12,kinet:2,kn:3,knowledg:12,known:[2,4,8],kronm:12,l:[9,10,11,12],la:12,label:[1,3,4,9],lak19:12,lakei:12,languag:[6,12],larg:[1,12],later:[5,7],latter:6,lawrenc:12,layer:[3,4,5,7,8],le:12,lead:[0,2,4,5],leak:4,learn:8,lectromagn:12,lectur:12,left:4,legend:[1,3,4],length:[1,3,4,5,6,8],less:5,let:[0,1,10],licens:3,light:12,like:[2,4,8,10],likelihood:10,likleihood:10,limit:[1,2,7,8],line:[1,9,11],linearli:11,linspac:[1,3,4,8,9,11],lipid:12,liquid:12,list:12,literatur:8,ller:12,ln:[9,11],loadtxt:11,local:9,log:[1,3,4,11],logic:[2,10,12],logpdf:9,lond:12,look:[0,1,2,3,6,9,10,11],loss:1,lost:5,lovel:12,low:3,lr99:[2,12],ls:11,lw:11,m:[3,9,11,12],m_:[3,7],m_w:7,m_w_ni:7,m_w_ti:7,made:[2,6,7],magnet:12,magnitud:1,mai:[1,2,6,7,11,12],majkrzak:12,major:[7,11],make:[2,3,6,8,12],mani:9,marker:11,mass:6,match:1,materi:[1,3,4,5,7,12],mathcal:[9,10,11],mathemat:12,mathit:[1,3],mathrm:[1,3,7,8,11],matnei:12,matplotlib:[1,3,4,8,9,11],matric:3,matrix:[3,4],matter:[7,12],matyszewska:12,max:[1,3,11],maxima:9,maximilian:12,maximis:[10,11],maximum:[8,9,10,11],mayer:12,mbd:[1,12],mccluskei:12,mead:9,mean:[1,4,7,8,9,11],measur:[0,1,2,5,6,10,11],media:3,member:9,membran:12,menten:2,mention:8,merit:2,meshgrid:9,method:[3,4,12],methodolog:[1,2,4,9,12],metric:[9,11],micel:12,micha:2,might:2,milieux:12,minim:9,minimis:[9,11],minimum:[9,10],mkh10:[2,12],modal:9,model:[1,4,7,8,9,10,11,12],modifi:[3,4],modul:[4,9],mol:7,molecul:[2,6],molecular:7,monolay:12,more:[0,2,4,6,7,8,9,10,11,12],most:[3,4,5,9],move:9,movement:12,msfe:[8,12],much:[3,5],multi:9,multivariate_norm:9,must:[2,4,8],mv1:9,mv2:9,mv:9,n:[3,4,7,8,11,12],n_:[3,11],n_a:7,n_c:8,nanostructur:12,natur:[6,8],nazaruk:12,ndarrai:[1,3,7,9,11],nearbi:9,necessari:[3,4,9],need:2,neg:9,nelder:9,nelson:12,neutron:[0,1,2,3,5,6,7,9],nevot:4,nevotc80:[4,12],newaxi:[1,3],ni:7,nickel:[4,7],nll:9,nois:1,noisi:1,non:9,none:9,norm:11,normal:[1,3,9,11],normal_wavevector:3,normalis:[1,11],note:[1,2,8,9],notic:[4,11],novemb:12,now:[0,3,4,8,9,11],np19:[3,12],np:[1,3,4,7,8,9,11],nuanc:5,number:[1,6,7,8,9,11],number_lay:3,number_q:3,numpi:[1,3,4,7,8,9,11],o:11,observ:[1,4,5,11],obtain:[1,4,7],obvious:5,offer:2,olar:12,onc:[9,12],ond:12,one:[8,9,10,11],ones:3,ones_lik:4,onli:[1,4,7,8,11],onlin:7,opin:12,opinion:12,optim:[9,11,12],optimis:[8,9],optimum:9,orang:[9,11],order:[5,9],other:[8,11],our:[1,2,4,5,6,7,8,9,11],out:[2,10],outsid:10,over:12,overal:[3,9,11],overview:0,oxford:12,p0:3,p1:3,p:[10,11,12],packag:[3,7],page:12,pai:12,panaccion:12,panosc:12,paper:12,par54:[3,12],par:12,param:[1,3,7,11],paramet:[3,4,5,6,7,8,9,10,11,12],parameteris:[6,8,12],pari:12,parker:12,parkin:12,parratt:[3,12],part:[1,11,12],particip:12,particl:9,particular:[5,6],particularli:12,patch:4,path:[5,9],pattern:[0,5],pdf:[9,11],peak:1,pedulla:12,per:6,perfect:4,perfectli:4,perform:[0,1,11],perpendicular:1,pg:1,phase:[1,2,3,12],phase_factor:3,phi:3,phi_0:3,phi_i:8,phi_n:3,phi_t:3,phil:12,phospholipid:12,phy:12,physic:[1,2,5,6,8,12],physica:12,physrev:12,pi:[1,3,11],pictori:8,piec:[1,4,7],pint:7,place:10,plane:[1,8],pleas:12,plot:[1,3,4,8,9,11,12],plt:[1,3,4,8,9,11],point:11,polar:12,polissag:12,popul:9,popular:2,posit:9,possibl:[1,2,4,5,8,9,11],posterior:10,power:12,prepar:[2,7],prescott:12,present:[1,2,4],press:12,pressur:8,preston:12,previou:[2,6],previous:[3,4,6,8],price:12,print:[7,9],probabl:[10,11],probe:[2,9,10],problem:[1,2,9,12],problemat:12,procedur:12,process:[2,6,7,9,12],prod:3,produc:[1,2,12],product:3,profil:[1,4,5],program:12,project:12,propag:[3,5,12],propos:2,propto:10,py:[4,9],pyplot:[1,3,4,8,9,11],python:[3,12],q2:1,q:[0,1,2,3,4,12],q_:1,q_x:1,q_y:1,qualiti:9,quantifi:9,quelqu:12,question:12,quick:1,r2:1,r:[1,3,4,5,8,12],r_:[3,4],r_abel:3,r_fourier:3,r_microsl:4,r_nevot_croc:4,r_with_rough:4,radiat:[0,1],rai:[1,12],random:9,rang:[1,2,3,4,9,12],rasant:12,rather:[2,6,7],ratio:5,ration:9,rayon:12,rck:12,re:9,reach:[7,9],read:12,reader:12,real:[3,4,5],realli:2,reason:7,recent:[8,12],rectangl:4,recurs:3,red:4,reduc:[6,8],refin:5,reflect:[1,2,4,5,12],reflectometri:[0,2,3,4,5,6,7,8,9,11],refnx:[3,12],refract:[3,5],region:[1,4,8,9],relat:7,relationship:1,relev:[8,12],reli:3,render:1,reparameteris:[5,7,8,11,12],repeat:7,repres:[2,11],reproduc:3,requir:[6,12],res1:9,res2:9,resolut:[1,2],respect:1,result:[1,2,3,4,5,9],resultant_matrix:3,retriv:1,rev:12,review:12,rewrit:1,rho:[3,7],rho_:7,rho_ni:7,rho_ti:7,rho_to_beta:7,richardson:12,right:4,risat:12,robust:9,room:7,root:9,rout:9,rphysap:12,rsta:12,rstl:12,rule:4,s0021889811041446:12,s0921:12,s1359:12,s1600576718017016:12,s1600576718017296:12,s:[0,1,7,8,9,10,12],saaka:12,sai:1,same:[4,5,7,11],sampl:[0,1,2,4,7],sanchez:12,sansom:12,satija:12,scale:[1,12],scatter:[0,1,3,4,5,6,8,12],sche:12,sci:12,scienc:[2,12],scipi:[7,9,11],search:12,section:[2,5,6,9],see:[4,5,9],seen:[10,11],select:11,self:8,semi:9,sensit:1,seri:[3,4,5],set:7,set_xlabel:[4,11],set_xlim:4,set_ylabel:[4,11],set_ylim:4,shao:12,shape:[3,9],shortest:4,should:[1,4,6,8,9,11,12],show:[1,2,3,4,5,7,8,9,11,12],shown:[1,2,3,4,5,8,9,11],si:1,sigma2:4,sigma3:4,sigma5:4,sigma7:4,sigma:[4,11],sigma_:4,sigma_n:11,silic:12,silicon:[1,4,7],similar:[2,3],simpl:[1,2,5,6,7,8,9,10,12],simpli:9,simul:[2,4,5,6,7],sin:8,singl:[8,11],sio_2:1,sit:[8,11],siv11:[1,12],sivia:[1,10,12],sj06:[10,12],skill:12,skip:12,sko19:12,skoda:12,slab:[4,6,8,12],sld_with_rough:4,smooth:[1,4],so:11,soc:12,soft:12,solid:12,solubl:8,solut:9,solv:12,solvat:8,solvent:[8,12],some:[0,1,2,4,5,8,9,10,11,12],someth:[0,2],son:12,sourc:12,sp97:[9,12],space:[0,9,12],spallat:12,speak:8,specif:[6,8],spectra:2,specular:12,spintron:12,springer:12,sqrt:3,squar:[1,3],sratifi:12,staff:8,standard:11,start:[9,10],stat:[9,11],state:10,step:[4,9,10],stephen:12,still:[4,7],storn:12,straight_lin:11,straightforward:6,strand:8,stratifi:3,structur:[1,2,6,7,12],student:12,studi:[1,2,8,12],subject:12,subplot:[4,11],suggest:[10,12],sum:[1,3,7],sum_:[7,8,11],summat:11,superphas:3,sur:12,sure:12,surfac:[1,3,7,12],surfact:12,swarm:9,synthesi:2,system:[1,2,4,5,6,7,8,9,12],t:[9,12],t_t:8,tackl:2,tail:8,take:[0,2,9,10],taken:[3,5],tan80:[8,12],tanford:[8,12],techniqu:[6,12],temperatur:7,tend:1,term:[5,7,8,11],textquotesingl:12,than:[1,4,7,9],thank:12,thei:[9,12],them:[4,11],theorem:10,theori:[1,12],therefor:[2,4,6,7,9,10],theta:[8,9,10,11],thi:[0,1,2,3,4,5,6,7,8,9,10,11,12],thick:[1,3,4,5,8],thin:4,thing:2,think:6,those:10,thought:1,three:[2,7],through:[3,4,5,12],thumb:4,tight_layout:11,time:[0,1,4,7],tiqu:12,titanium:7,tkh:[9,12],togeth:3,tool:[1,2,6],top4:9,top:1,toperverg:12,total:12,touch:12,toward:[1,9,12],tradit:[7,8,12],train:12,tran:12,transform:[2,3,5,12],translat:6,transmitt:3,treec:12,trigonometri:8,tude:12,turn:9,tutori:[10,12],two:[2,3,4,5,6,8,9],txt:11,typic:[2,4,5,6,7,8,9,11],tz07:12,u:7,uantum:12,uncertainti:11,unclear:7,under:[1,3,8],underli:[2,11],understand:[2,3,5,6,10,12],unintuit:6,uniqu:9,unit:0,unitregistri:7,univers:12,unlik:8,unphys:[1,4],until:7,up:9,uphil:9,us:[2,3,4,6,7,8,9,10,11,12],useless:1,user:[1,12],utilis:1,valu:[1,3,7,8,9,10,11],vari:[7,9],variabl:7,varieti:9,vector:3,veri:[4,8,9],verr:12,version:1,vibrat:2,video:0,virtual:12,visualis:[1,4],vot:12,w:[7,12],wa:[1,2,5,10,12],wai:[2,8],watch:0,water:[8,12],wave:[3,5],wavevector:[1,3],wc19:12,we:[0,1,2,4,5,6,7,8,10,11,12],weight:7,welbourn:12,well:2,were:10,what:12,when:[3,5,8,9,10,11],where:[1,2,3,4,5,7,8,9,10,11],which:[0,1,3,4,7,8,9,10,11],width:4,wiesendang:12,wilei:12,within:10,without:[1,2,4],word:2,work:[4,6,12],workflow:2,wormington:12,would:[2,4,5,8,10],wpmb99:[9,12],written:[1,11],wwe:8,x:[1,9,11,12],x_n:11,xlabel:[1,3,4,8,9],xy:8,y:[9,10,11,12],y_fit:11,y_n:11,ylabel:[1,3,4,8,9],you:[1,2,10,11,12],your:[8,12],yscale:[1,3,4],yy:11,z:[1,3,4,5],zabel:12,zero:3,zeros_lik:[1,3],zhou:12,zorder:11,zq:1,ztbt07:12},titles:["An introduction to Fourier transforms","Fourier transforms for reflectometry analysis","What is model-dependent analysis?","How we calculate the reflectivity of a slab model","Roughness and microslicing","The \u201cslab model\u201d","A case for model reparameterisation","NiTi multilayer example","Phospholipid monolayer example","How do we maximise the likelihood?","How to leverage our prior knowledge?","What is the likelihood?","Introduction to neutron reflectometry fitting"],titleterms:{"case":6,"do":9,A:[6,10],The:[1,5],algorithm:3,an:[0,1],analysi:[1,2],angl:8,approxim:1,area:8,bibliographi:12,born:1,calcul:3,chain:8,densiti:7,depend:2,exampl:[1,7,8],fit:12,fourier:[0,1],gradient:9,how:[3,9,10],interfac:1,interfaci:4,introduct:[0,12],knowledg:10,layer:1,length:7,leverag:10,likelihood:[9,11],mass:7,maximis:9,method:9,microsl:4,model:[2,3,5,6],molecul:8,monolay:8,multilay:7,neutron:12,niti:7,our:10,oxid:1,per:8,phospholipid:8,prior:10,problem:4,reflect:3,reflectometri:[1,12],reparameteris:6,rough:4,scatter:7,singl:1,slab:[3,5],specular:1,stochast:9,tilt:8,transform:[0,1],uniform:10,us:1,we:[3,9],what:[0,2,11]}})

diff --git a/5_fitting_processes_and_problems/how_do_we_maximise_the_likelihood.html b/5_fitting_processes_and_problems/how_do_we_maximise_the_likelihood.html
@@ -281,6 +281,12 @@
                     alt="Interact on binder">Binder</button></a>
         
         
+        <a class="jupyterhub-button" href="https://pantest.esss.dk/nrfittingintro/user/335/tree/gitrepo_nrfittingintro//hub/user-redirect/git-pull?repo=https://github.com/arm61/isis_school&urlpath=tree/isis_school/docs/5_fitting_processes_and_problems/how_do_we_maximise_the_likelihood.ipynb&branch=master"><button type="button"
+                class="btn btn-secondary topbarbtn" title="Launch JupyterHub" data-toggle="tooltip"
+                data-placement="left"><img class="jupyterhub-button-logo"
+                    src="../_static/images/logo_jupyterhub.svg"
+                    alt="Interact on JupyterHub">JupyterHub</button></a>
+        
         
         
     </div>
@@ -462,7 +468,7 @@ This is necessary as, as we can see from the overall maximum, the differential e
 </div>
 <div class="cell_output docutils container">
 <img alt="../_images/how_do_we_maximise_the_likelihood_6_0.png" src="../_images/how_do_we_maximise_the_likelihood_6_0.png" />
-<div class="output stream highlight-myst-ansi notranslate"><div class="highlight"><pre><span></span>Overall Maximum: [ 3.04491697 -0.02610489]
+<div class="output stream highlight-myst-ansi notranslate"><div class="highlight"><pre><span></span>Overall Maximum: [7.79103477 1.89098951]
 </pre></div>
 </div>
 </div>

diff --git a/3_reflectometry_slab_models/how_we_calculate_the_reflectivity_of_a_slab_model.html b/3_reflectometry_slab_models/how_we_calculate_the_reflectivity_of_a_slab_model.html
@@ -281,6 +281,12 @@
                     alt="Interact on binder">Binder</button></a>
         
         
+        <a class="jupyterhub-button" href="https://pantest.esss.dk/nrfittingintro/user/335/tree/gitrepo_nrfittingintro//hub/user-redirect/git-pull?repo=https://github.com/arm61/isis_school&urlpath=tree/isis_school/docs/3_reflectometry_slab_models/how_we_calculate_the_reflectivity_of_a_slab_model.ipynb&branch=master"><button type="button"
+                class="btn btn-secondary topbarbtn" title="Launch JupyterHub" data-toggle="tooltip"
+                data-placement="left"><img class="jupyterhub-button-logo"
+                    src="../_static/images/logo_jupyterhub.svg"
+                    alt="Interact on JupyterHub">JupyterHub</button></a>
+        
         
         
     </div>

diff --git a/1_the_fourier_transform/fourier_transforms_for_reflectometry_analysis.html b/1_the_fourier_transform/fourier_transforms_for_reflectometry_analysis.html
@@ -281,6 +281,12 @@
                     alt="Interact on binder">Binder</button></a>
         
         
+        <a class="jupyterhub-button" href="https://pantest.esss.dk/nrfittingintro/user/335/tree/gitrepo_nrfittingintro//hub/user-redirect/git-pull?repo=https://github.com/arm61/isis_school&urlpath=tree/isis_school/docs/1_the_fourier_transform/fourier_transforms_for_reflectometry_analysis.ipynb&branch=master"><button type="button"
+                class="btn btn-secondary topbarbtn" title="Launch JupyterHub" data-toggle="tooltip"
+                data-placement="left"><img class="jupyterhub-button-logo"
+                    src="../_static/images/logo_jupyterhub.svg"
+                    alt="Interact on JupyterHub">JupyterHub</button></a>
+        
         
         
     </div>

diff --git a/4_model_reparameterisation/phospholipid_monolayer_example.html b/4_model_reparameterisation/phospholipid_monolayer_example.html
@@ -281,6 +281,12 @@
                     alt="Interact on binder">Binder</button></a>
         
         
+        <a class="jupyterhub-button" href="https://pantest.esss.dk/nrfittingintro/user/335/tree/gitrepo_nrfittingintro//hub/user-redirect/git-pull?repo=https://github.com/arm61/isis_school&urlpath=tree/isis_school/docs/4_model_reparameterisation/phospholipid_monolayer_example.ipynb&branch=master"><button type="button"
+                class="btn btn-secondary topbarbtn" title="Launch JupyterHub" data-toggle="tooltip"
+                data-placement="left"><img class="jupyterhub-button-logo"
+                    src="../_static/images/logo_jupyterhub.svg"
+                    alt="Interact on JupyterHub">JupyterHub</button></a>
+        
         
         
     </div>

diff --git a/5_fitting_processes_and_problems/what_is_the_likelihood.html b/5_fitting_processes_and_problems/what_is_the_likelihood.html
@@ -281,6 +281,12 @@
                     alt="Interact on binder">Binder</button></a>
         
         
+        <a class="jupyterhub-button" href="https://pantest.esss.dk/nrfittingintro/user/335/tree/gitrepo_nrfittingintro//hub/user-redirect/git-pull?repo=https://github.com/arm61/isis_school&urlpath=tree/isis_school/docs/5_fitting_processes_and_problems/what_is_the_likelihood.ipynb&branch=master"><button type="button"
+                class="btn btn-secondary topbarbtn" title="Launch JupyterHub" data-toggle="tooltip"
+                data-placement="left"><img class="jupyterhub-button-logo"
+                    src="../_static/images/logo_jupyterhub.svg"
+                    alt="Interact on JupyterHub">JupyterHub</button></a>
+        
         
         
     </div>

diff --git a/3_reflectometry_slab_models/roughness_and_microslicing.html b/3_reflectometry_slab_models/roughness_and_microslicing.html
@@ -281,6 +281,12 @@
                     alt="Interact on binder">Binder</button></a>
         
         
+        <a class="jupyterhub-button" href="https://pantest.esss.dk/nrfittingintro/user/335/tree/gitrepo_nrfittingintro//hub/user-redirect/git-pull?repo=https://github.com/arm61/isis_school&urlpath=tree/isis_school/docs/3_reflectometry_slab_models/roughness_and_microslicing.ipynb&branch=master"><button type="button"
+                class="btn btn-secondary topbarbtn" title="Launch JupyterHub" data-toggle="tooltip"
+                data-placement="left"><img class="jupyterhub-button-logo"
+                    src="../_static/images/logo_jupyterhub.svg"
+                    alt="Interact on JupyterHub">JupyterHub</button></a>
+        
         
         
     </div>

diff --git a/4_model_reparameterisation/niti_multilayer_example.html b/4_model_reparameterisation/niti_multilayer_example.html
@@ -281,6 +281,12 @@
                     alt="Interact on binder">Binder</button></a>
         
         
+        <a class="jupyterhub-button" href="https://pantest.esss.dk/nrfittingintro/user/335/tree/gitrepo_nrfittingintro//hub/user-redirect/git-pull?repo=https://github.com/arm61/isis_school&urlpath=tree/isis_school/docs/4_model_reparameterisation/niti_multilayer_example.ipynb&branch=master"><button type="button"
+                class="btn btn-secondary topbarbtn" title="Launch JupyterHub" data-toggle="tooltip"
+                data-placement="left"><img class="jupyterhub-button-logo"
+                    src="../_static/images/logo_jupyterhub.svg"
+                    alt="Interact on JupyterHub">JupyterHub</button></a>
+        
         
         
     </div>
